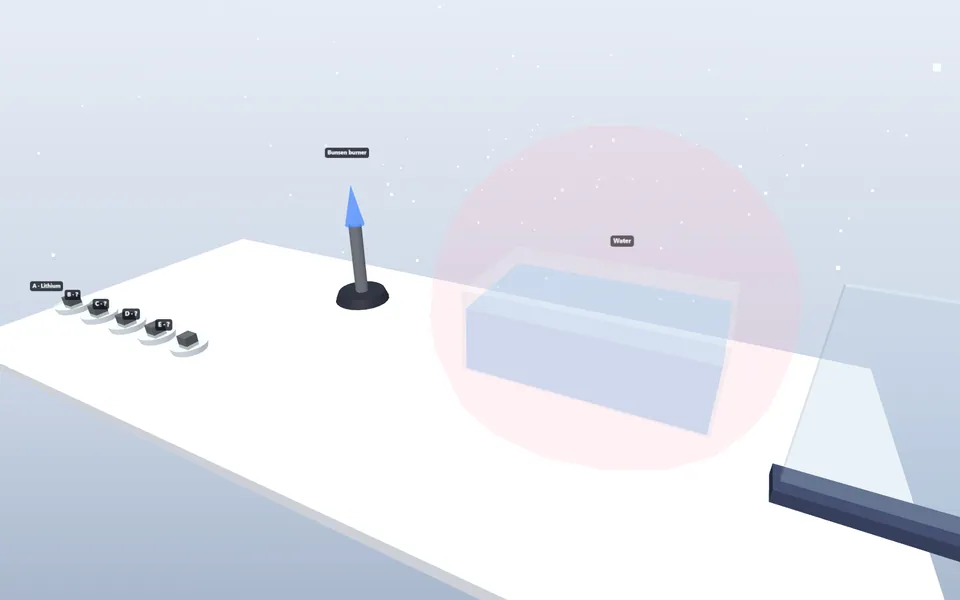
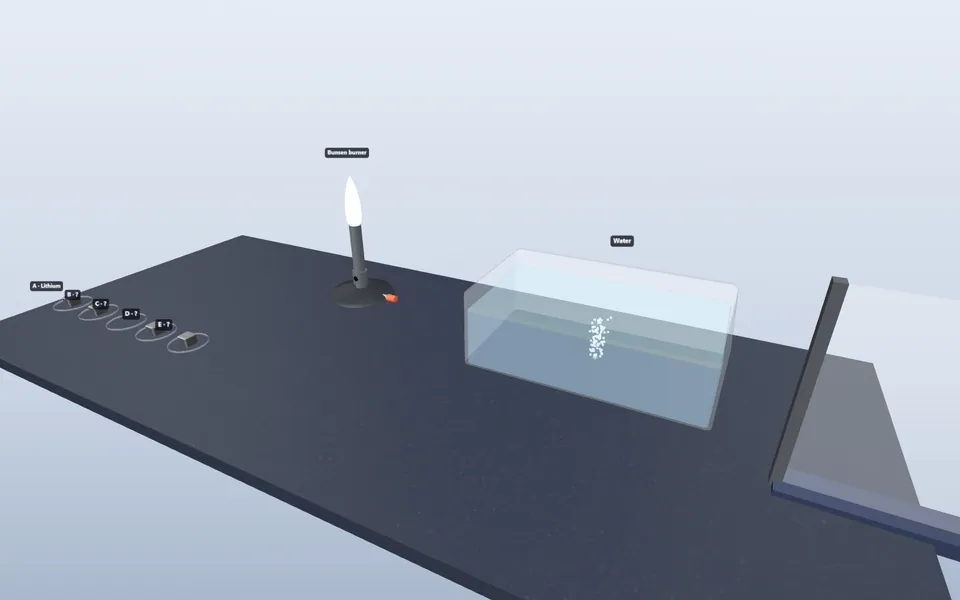
Voltaic Lab: real-looking metal strips, labelled bottles, glass beakers, multimeter with holster, dial and sockets, lab bench and reflections; refresh chemistry lab pictures

diff --git a/lessons/voltaic-lab/src/model/Bench.js b/lessons/voltaic-lab/src/model/Bench.js
@@ -1,6 +1,8 @@
 import * as THREE from 'three';
 import { makeLabel } from '../../../../shared/ui/labels.js';
 import { METALS, METAL_IDS, ELECTROLYTES, ELECTROLYTE_IDS, METER_R, cellEMF } from '../data/voltaic.js';
+import { RoundedBoxGeometry } from 'three/addons/geometries/RoundedBoxGeometry.js';
+import { makeBeaker, reagentBottle, benchTop, metalMaterial, liquidMaterial } from '../../../../shared/lab/kit.js';
 
 // The bench.
 //   Core: four beakers. Drag two metal strips from the tray into a beaker (one on each side) and pour an
@@ -23,7 +25,14 @@ const STRIP = { w: 0.012, h: 0.11, d: 0.0025 };
 const STRIP_DEPTH = 0.07; // how far it sits in the liquid
 const SNAP = 0.06;
 
-const mat = (color, o = {}) => new THREE.MeshStandardMaterial({ color, roughness: 0.5, ...o });
+const mat = (color, o = {}) => new THREE.MeshStandardMaterial({ color, roughness: 0.5, envMapIntensity: 0.6, ...o });
+
+/** An empty glass beaker from the lab kit (this lesson adds its own liquid). */
+function glassBeaker(r, h) {
+  const b = makeBeaker(r, h, 0xffffff, 0.1);
+  b.userData.liquid.visible = false;
+  return b;
+}
 const glass = new THREE.MeshStandardMaterial({ color: 0xd8eeff, transparent: true, opacity: 0.25, roughness: 0.08, side: THREE.DoubleSide, depthWrite: false });
 
 function canvasTex(w, h) {
@@ -38,7 +47,8 @@ function canvasTex(w, h) {
 function makeStrip(metal) {
   const g = new THREE.Group();
   const m = METALS[metal];
-  const body = new THREE.Mesh(new THREE.BoxGeometry(STRIP.w, STRIP.h, STRIP.d), mat(m.color, { metalness: 0.85, roughness: metal === 'pb' || metal === 'fe' ? 0.55 : 0.3 }));
+  const body = new THREE.Mesh(new RoundedBoxGeometry(STRIP.w, STRIP.h, STRIP.d, 1, 0.0008), metalMaterial(metal, m.color).clone()); // its own copy: it darkens as the cell runs down
+  body.material.userData.base = body.material.color.getHex();
   const coat = new THREE.Mesh(new THREE.BoxGeometry(STRIP.w * 1.12, STRIP_DEPTH, STRIP.d * 2.2), mat(0xb8633a, { metalness: 0.4, roughness: 0.8 }));
   coat.position.y = -STRIP.h / 2 + STRIP_DEPTH / 2;
   coat.visible = false;
@@ -72,8 +82,8 @@ export class Bench {
     this.selected = 0;
     this.tmp = new THREE.Vector3();
 
-    const top = new THREE.Mesh(new THREE.BoxGeometry(0.92, 0.012, 0.5), mat(0xe9ecf2, { roughness: 0.4 }));
-    top.position.set(0, TOP - 0.006, 0.02);
+    const top = benchTop(0.92, 0.5, { color: 0x2a3140 });
+    top.position.set(0, TOP, 0.02);
     this.group.add(top);
 
     // ── cell stations: core (4 single beakers) and advanced (2 pairs) ──
@@ -81,7 +91,7 @@ export class Bench {
     this.advCells = [-0.27, 0.27].map((x, i) => this.makeAdvCell(x, i));
 
     // ── metal tray ──
-    const tray = new THREE.Mesh(new THREE.BoxGeometry(0.33, 0.008, 0.07), mat(0x3a4256));
+    const tray = new THREE.Mesh(new RoundedBoxGeometry(0.33, 0.008, 0.07, 2, 0.003), mat(0x4a5266, { roughness: 0.7 }));
     tray.position.set(TRAY.x + 0.13, TOP + 0.004, TRAY.z);
     this.group.add(tray);
     this.tray = tray;
@@ -104,20 +114,17 @@ export class Bench {
     this.bottles = ELECTROLYTE_IDS.map((id, i) => {
       const e = ELECTROLYTES[id];
       const g = new THREE.Group();
-      const body = new THREE.Mesh(new THREE.CylinderGeometry(0.014, 0.014, 0.05, 16), new THREE.MeshStandardMaterial({ color: e.color, transparent: true, opacity: 0.8, roughness: 0.15 }));
-      body.position.y = 0.025;
-      const neck = new THREE.Mesh(new THREE.CylinderGeometry(0.006, 0.009, 0.014, 12), mat(0xffffff, { transparent: true, opacity: 0.6 }));
-      neck.position.y = 0.057;
-      const cap = new THREE.Mesh(new THREE.CylinderGeometry(0.0065, 0.0065, 0.006, 12), mat(0x2a6bd8));
-      cap.position.y = 0.067;
+      const bottle = reagentBottle({ r: 0.014, h: 0.06, liquid: e.color, cap: 0x2a6bd8, label: e.short });
       const tag = makeLabel(e.short, { height: 0.009, size: 34 });
       tag.position.y = 0.083;
-      g.add(body, neck, cap, tag);
+      g.add(bottle, tag);
+      const picks = [];
+      bottle.traverse((m) => { if (m.isMesh) picks.push(m); });
       g.position.set(BOTTLES.x + i * 0.04, TOP, BOTTLES.z + (i % 2) * 0.03);
       g.userData.home = g.position.clone();
-      for (const m of [body, neck, cap]) m.userData = { handler: this, bottle: id };
+      for (const m of picks) m.userData = { handler: this, bottle: id };
       this.group.add(g);
-      return { id, group: g, picks: [body, neck, cap] };
+      return { id, group: g, picks };
     });
 
     // ── salt bridges (advanced): a strip of filter paper soaked in potassium nitrate, bent into a U ──
@@ -144,13 +151,26 @@ export class Bench {
     // ── multimeter ──
     this.meter = new THREE.Group();
     this.meter.position.copy(METER);
-    const mbody = new THREE.Mesh(new THREE.BoxGeometry(0.12, 0.03, 0.15), mat(0xf2b230, { roughness: 0.6 }));
+    const mbody = new THREE.Mesh(new RoundedBoxGeometry(0.12, 0.03, 0.15, 4, 0.01), mat(0xf2b230, { roughness: 0.75 })); // the rubber holster
     mbody.position.y = 0.015;
+    const panel = new THREE.Mesh(new RoundedBoxGeometry(0.1, 0.004, 0.13, 2, 0.003), mat(0x2b2f3a, { roughness: 0.5 }));
+    panel.position.set(0, 0.0305, 0);
+    this.meter.add(panel);
+    for (const [sx, col] of [[-0.03, 0x15171c], [0, 0xd42a2a], [0.03, 0xd42a2a]]) {
+      const sock = new THREE.Mesh(new THREE.CylinderGeometry(0.005, 0.005, 0.004, 16), mat(col, { roughness: 0.4 }));
+      sock.position.set(sx, 0.033, 0.06);
+      const hole = new THREE.Mesh(new THREE.CylinderGeometry(0.0022, 0.0022, 0.0045, 12), mat(0x050506));
+      hole.position.copy(sock.position);
+      this.meter.add(sock, hole);
+    }
     this.screen = canvasTex(320, 150);
     const face = new THREE.Mesh(new THREE.PlaneGeometry(0.1, 0.047), new THREE.MeshBasicMaterial({ map: this.screen.t, toneMapped: false }));
     face.rotation.x = -Math.PI / 2 + 0.35;
     face.position.set(0, 0.04, -0.03);
-    this.modeBtn = new THREE.Mesh(new THREE.CylinderGeometry(0.018, 0.018, 0.008, 24), mat(0x2b2f3a));
+    this.modeBtn = new THREE.Mesh(new THREE.CylinderGeometry(0.018, 0.019, 0.008, 32), mat(0x3a3f4a, { roughness: 0.45 })); // the dial
+    const pointer = new THREE.Mesh(new THREE.BoxGeometry(0.003, 0.002, 0.014), mat(0xf2f2f2));
+    pointer.position.set(0, 0.0045, -0.008);
+    this.modeBtn.add(pointer);
     this.modeBtn.position.set(0, 0.033, 0.035);
     this.modeBtn.userData = { handler: this, meterMode: true, tapOnly: true };
     const modeTag = makeLabel('V / mA', { height: 0.009, size: 32 });
@@ -174,11 +194,9 @@ export class Bench {
     g.position.set(x, TOP, BACK_Z);
     const r = 0.042;
     const h = 0.09;
-    const wall = new THREE.Mesh(new THREE.CylinderGeometry(r, r * 0.95, h, 28, 1, true), glass);
-    wall.position.y = h / 2;
-    const base = new THREE.Mesh(new THREE.CircleGeometry(r * 0.95, 28).rotateX(-Math.PI / 2), glass);
-    base.position.y = 0.001;
-    const liquid = new THREE.Mesh(new THREE.CylinderGeometry(r * 0.94, r * 0.9, 0.065, 28), new THREE.MeshStandardMaterial({ color: 0xffffff, transparent: true, opacity: 0.55, roughness: 0.1 }));
+    const wall = glassBeaker(r, h);
+    const base = new THREE.Group();
+    const liquid = new THREE.Mesh(new THREE.CylinderGeometry(r * 0.94, r * 0.92, 0.065, 28), liquidMaterial(0xffffff, 0.55));
     liquid.position.y = 0.0335;
     liquid.visible = false;
     const pick = new THREE.Mesh(new THREE.CylinderGeometry(r, r, h, 12), new THREE.MeshBasicMaterial({ visible: false }));
@@ -204,11 +222,9 @@ export class Bench {
       b.position.x = dx;
       const r = 0.038;
       const h = 0.085;
-      const wall = new THREE.Mesh(new THREE.CylinderGeometry(r, r * 0.95, h, 28, 1, true), glass);
-      wall.position.y = h / 2;
-      const base = new THREE.Mesh(new THREE.CircleGeometry(r * 0.95, 28).rotateX(-Math.PI / 2), glass);
-      base.position.y = 0.001;
-      const liquid = new THREE.Mesh(new THREE.CylinderGeometry(r * 0.94, r * 0.9, 0.06, 28), new THREE.MeshStandardMaterial({ color: 0xffffff, transparent: true, opacity: 0.6, roughness: 0.1 }));
+      const wall = glassBeaker(r, h);
+      const base = new THREE.Group();
+      const liquid = new THREE.Mesh(new THREE.CylinderGeometry(r * 0.94, r * 0.92, 0.06, 28), liquidMaterial(0xffffff, 0.6));
       liquid.position.y = 0.031;
       liquid.visible = false;
       const tag = makeLabel(' ', { height: 0.01, size: 32 });
@@ -388,7 +404,7 @@ export class Bench {
       const w = cell.wear;
       const neg = k === negK && emf;
       s.userData.body.scale.set(neg ? 1 - 0.55 * w : 1, 1, neg ? 1 - 0.5 * w : 1);
-      s.userData.body.material.color.setHex(METALS[k === 0 ? cell.left : cell.right].color).multiplyScalar(neg ? 1 - 0.35 * w : 1);
+      s.userData.body.material.color.setHex(s.userData.body.material.userData.base).multiplyScalar(neg ? 1 - 0.35 * w : 1);
       const other = k === 0 ? cell.right : cell.left;
       const coatMetal = this.level === 'advanced' ? (k === 0 ? cell.left : cell.right) : null;
       s.userData.coat.visible = !neg && emf && w > 0.05 && this.level === 'advanced';

diff --git a/lessons/voltaic-lab/src/main.js b/lessons/voltaic-lab/src/main.js
@@ -1,5 +1,6 @@
 import * as THREE from 'three';
 import { LessonApp } from '../../../shared/LessonApp.js';
+import { studioReflections } from '../../../shared/util/reflections.js';
 import { CanvasPanel } from '../../../shared/ui/CanvasPanel.js';
 import { sound } from '../../../shared/util/sound.js';
 import { PREDICTIONS, ANSWERS, METALS, ELECTROLYTES, BATTERIES, cellEMF } from './data/voltaic.js';
@@ -50,6 +51,7 @@ class App extends LessonApp {
   }
 
   initLesson() {
+    studioReflections(this); // metal strips, glass and liquids
     this.lab.remove(this.explainPanel.mesh);
     this.explainPanel = new CanvasPanel({ width: 0.62, height: 0.24, name: 'card' });
     this.explainPanel.mesh.position.set(0, 0.47, -0.2);
